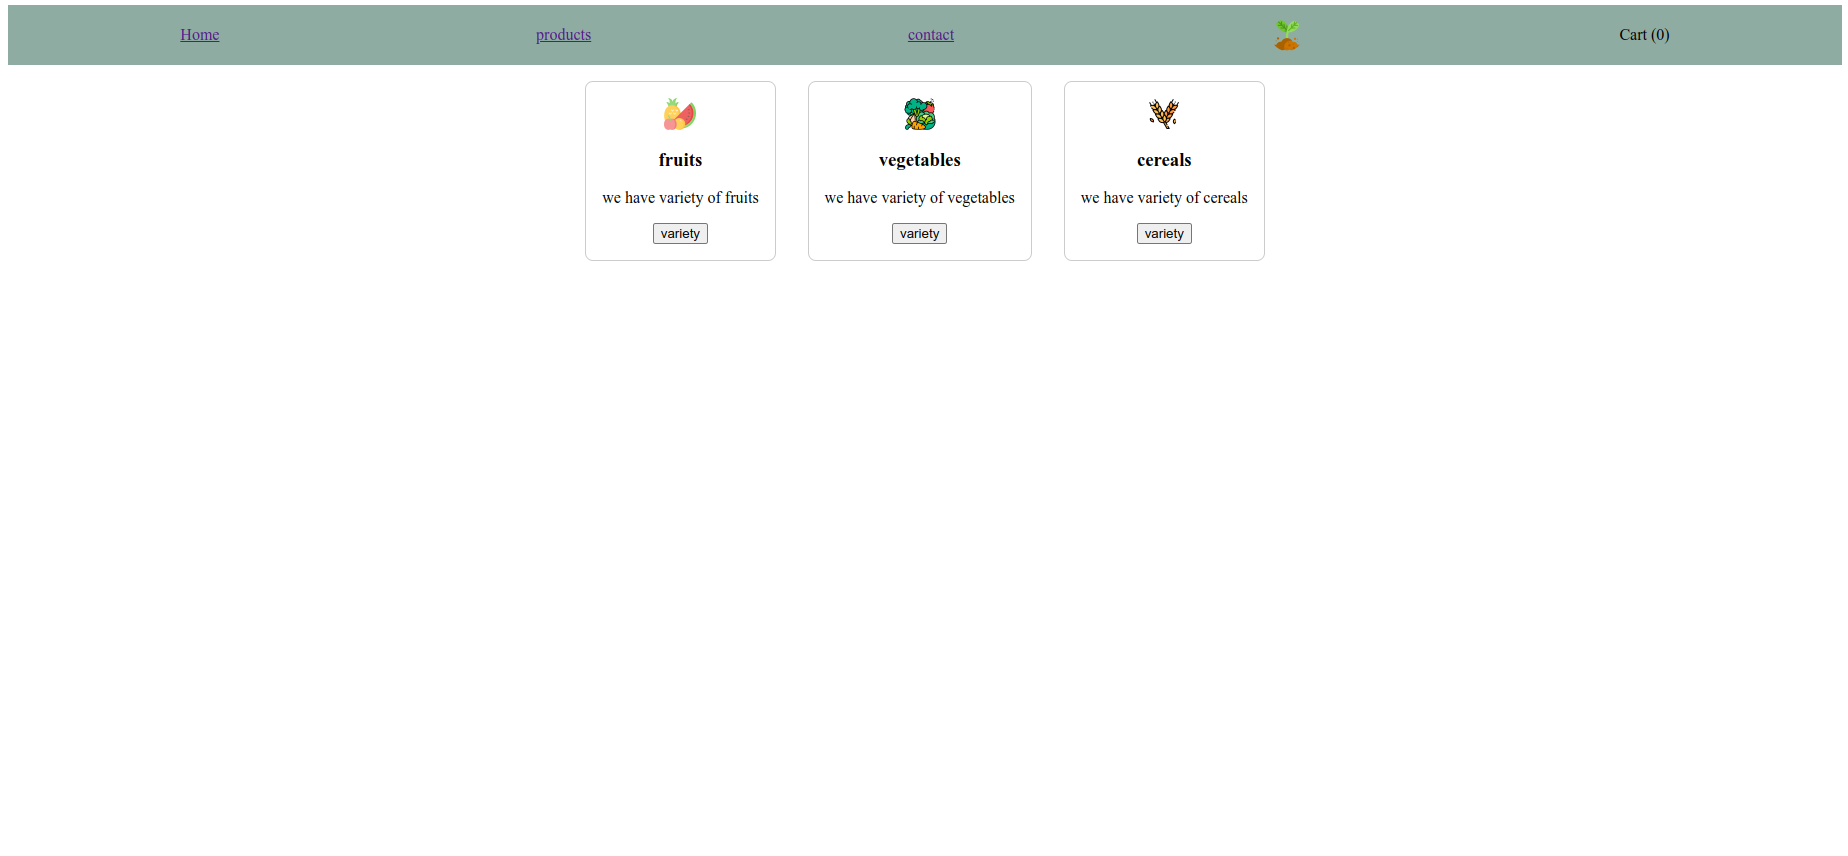
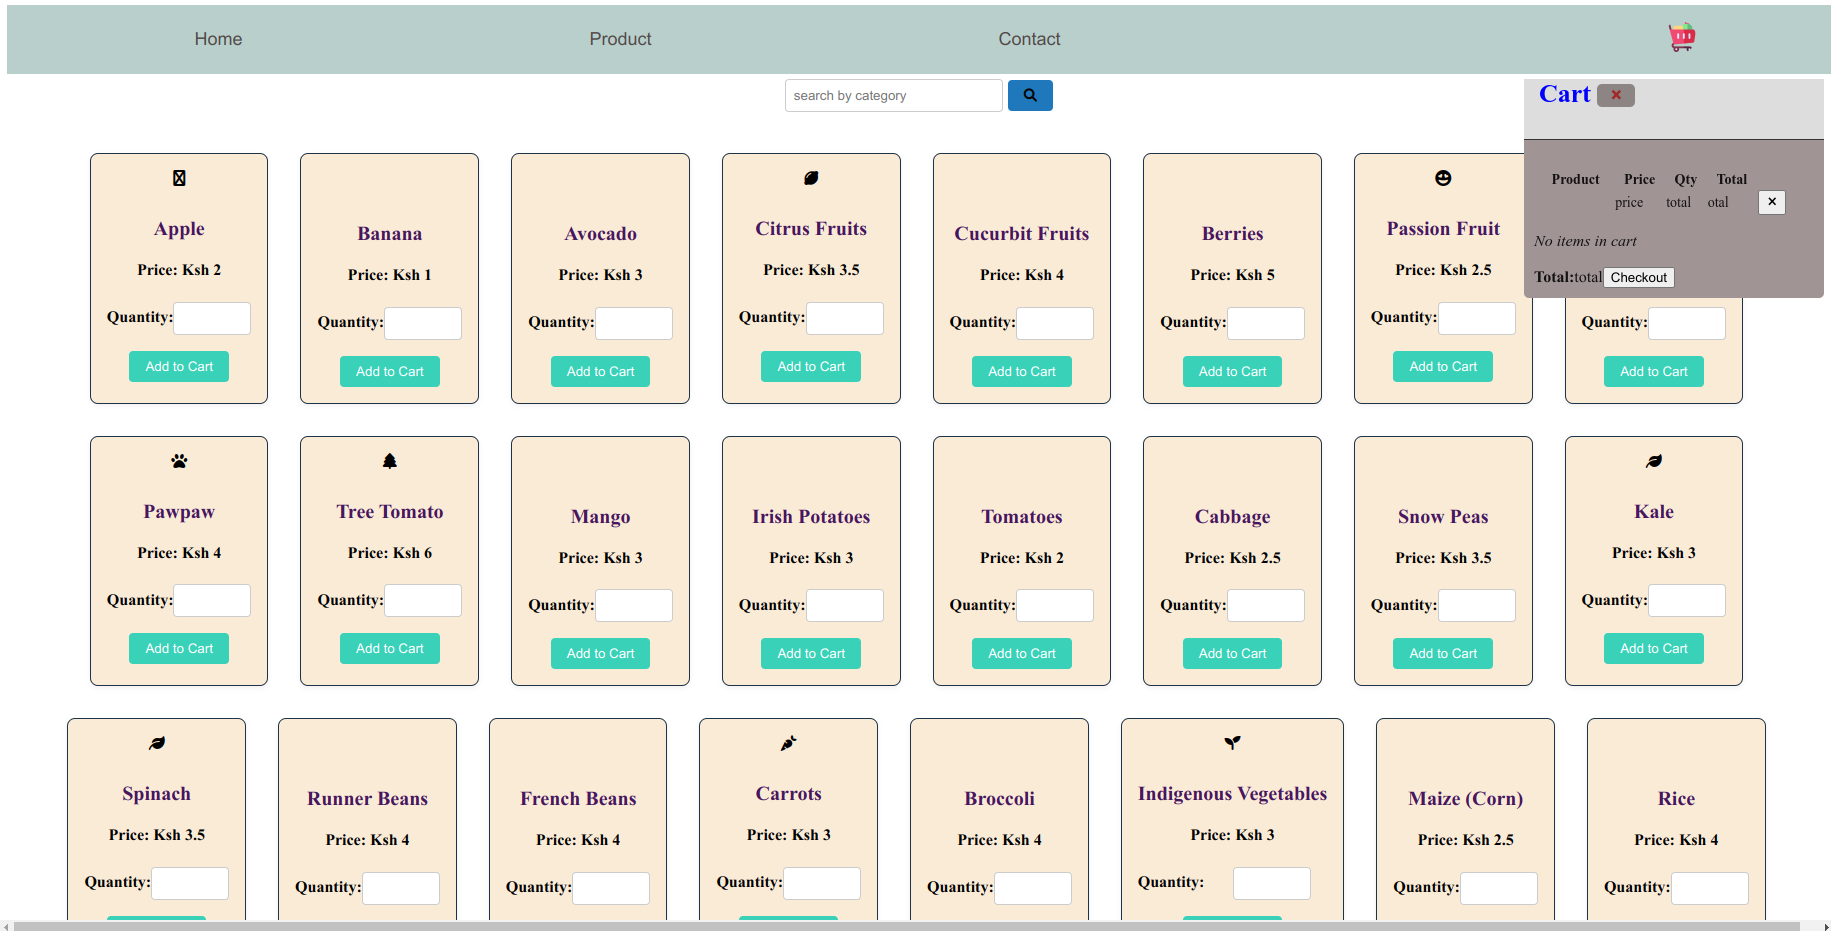
toogling cart component commit

diff --git a/vendor-app/src/components/cartCard.vue b/vendor-app/src/components/cartCard.vue
@@ -1,5 +1,11 @@
 <script setup>
-const props=defineProps('products', 'cart')
+import {ref} from 'vue'
+
+const emit=defineEmits(['toogle'])
+const toogleSidebar=()=>{
+    emit('toogle')
+}
+
 </script>
 <template>
      <aside class="cart-container">
@@ -9,7 +15,7 @@ const props=defineProps('products', 'cart')
           Cart
           <i class="icofont-cart-alt icofont-1x"></i>
         </span>
-        <button @click="toogle" class="cart-close">&times;</button>
+        <button @click="toogleSidebar" class="cart-close">&times;</button>
       </h1>
 
       <div class="cart-body">
@@ -53,6 +59,9 @@ const props=defineProps('products', 'cart')
 .cart-container {
     position: fixed;
     overflow: hidden;
+    border-radius: 5px;
+    margin: 60px 10px ;
+    max-height: max-content;
 }
 
 .cart-container,
@@ -60,13 +69,13 @@ const props=defineProps('products', 'cart')
     top: 0px;
     right: 0px;
     width: 300px; /* Example value, replace with your desired width */
-    height: 100%;
+  
 }
 
 .cart {
     position: relative;
-    background: #777373; /* Example background color */
-    color: #181414; /* Example text color */
+    background: #a19494; /* Example background color */
+    color: #131212; /* Example text color */
     transition: right 1s ease;
 }
 
@@ -82,16 +91,19 @@ const props=defineProps('products', 'cart')
     border-bottom: 1px solid #333; /* Example border color */
     padding: 0px 15px;
     font-size: 26px;
+    color: blue;
 }
 
 .cart-close {
     background: transparent;
+    background-color: #8d8484;
     border: 0px;
     border-radius: 5px; /* Example border radius */
     padding: 0px 13px;
-    color: #fff; /* Example text color */
+    color: #a12929; /* Example text color */
     font-size: 20px;
     font-weight: bold;
+   
 }
 
 .cart-close:hover {

diff --git a/vendor-app/src/App.vue b/vendor-app/src/App.vue
@@ -1,10 +1,10 @@
 <script setup>
-import { onMounted, ref } from "vue";
+import { onMounted, ref, shallowRef } from "vue";
 import homeCard from "./components/homeCard.vue";
 import contactCard from "./components/contactCard.vue";
 import productCard from "./components/productCard.vue";
 import cartCard from "./components/cartCard.vue";
-const currentView = ref(homeCard);
+const currentView = shallowRef(homeCard);
 function onHashChange() {
   const hash = window.location.hash.substring(1);
   if (hash === "product") {
@@ -19,6 +19,10 @@ onMounted(() => {
   window.addEventListener("hashchange", onHashChange);
   onHashChange();
 });
+const isCartvisible=ref(false)
+function toogleSidebar(){
+    isCartvisible.value=!isCartvisible.value
+}
 </script>
 <template>
   <nav class="navbar">
@@ -28,15 +32,16 @@ onMounted(() => {
     <div class="logo">
       
     </div>
-    <a>
+    <a @click="toogleSidebar">
       <span class="icon icon-trolley"></span>
       
     </a>
   </nav>
   <component :is="currentView" />
   <cart-card  
-  :products="products"
-  :cart="cart"
+  v-if="isCartvisible"
+
+  @toogle="toogleSidebar"
   />
 
 </template>
